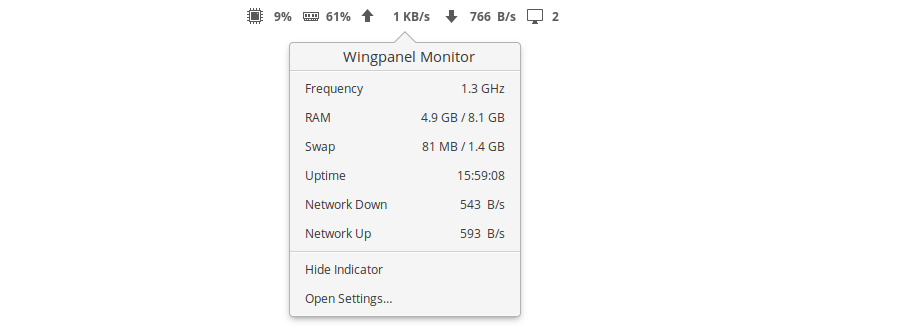
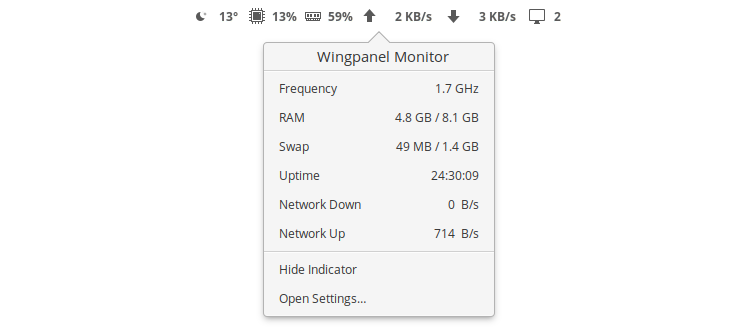
Weather information in wingpanel (#6)
* WIP for weather information in wingpanel

* Set up mechanism for auto refresh of weather

* linter

* update ci with new deps

* Fix infinite weather refresh loop

* Fix linting

* update screenshot

diff --git a/README.md b/README.md
@@ -22,13 +22,15 @@ libgtop2-dev
 libgranite-dev
 libgtk-3-dev
 libwingpanel-2.0-dev
+libgeoclue-2-dev
+libgweather-3-dev
 meson
 valac
 ```
 
 You can install them running
 ```
-sudo apt install libgtop2-dev libgranite-dev libgtk-3-dev libwingpanel-2.0-dev meson valac
+sudo apt install libgtop2-dev libgranite-dev libgtk-3-dev libwingpanel-2.0-dev meson valac libgeoclue-2-dev libgweather-3-dev
 ```
 
 Run `meson` to configure the build environment and then `ninja` to build
